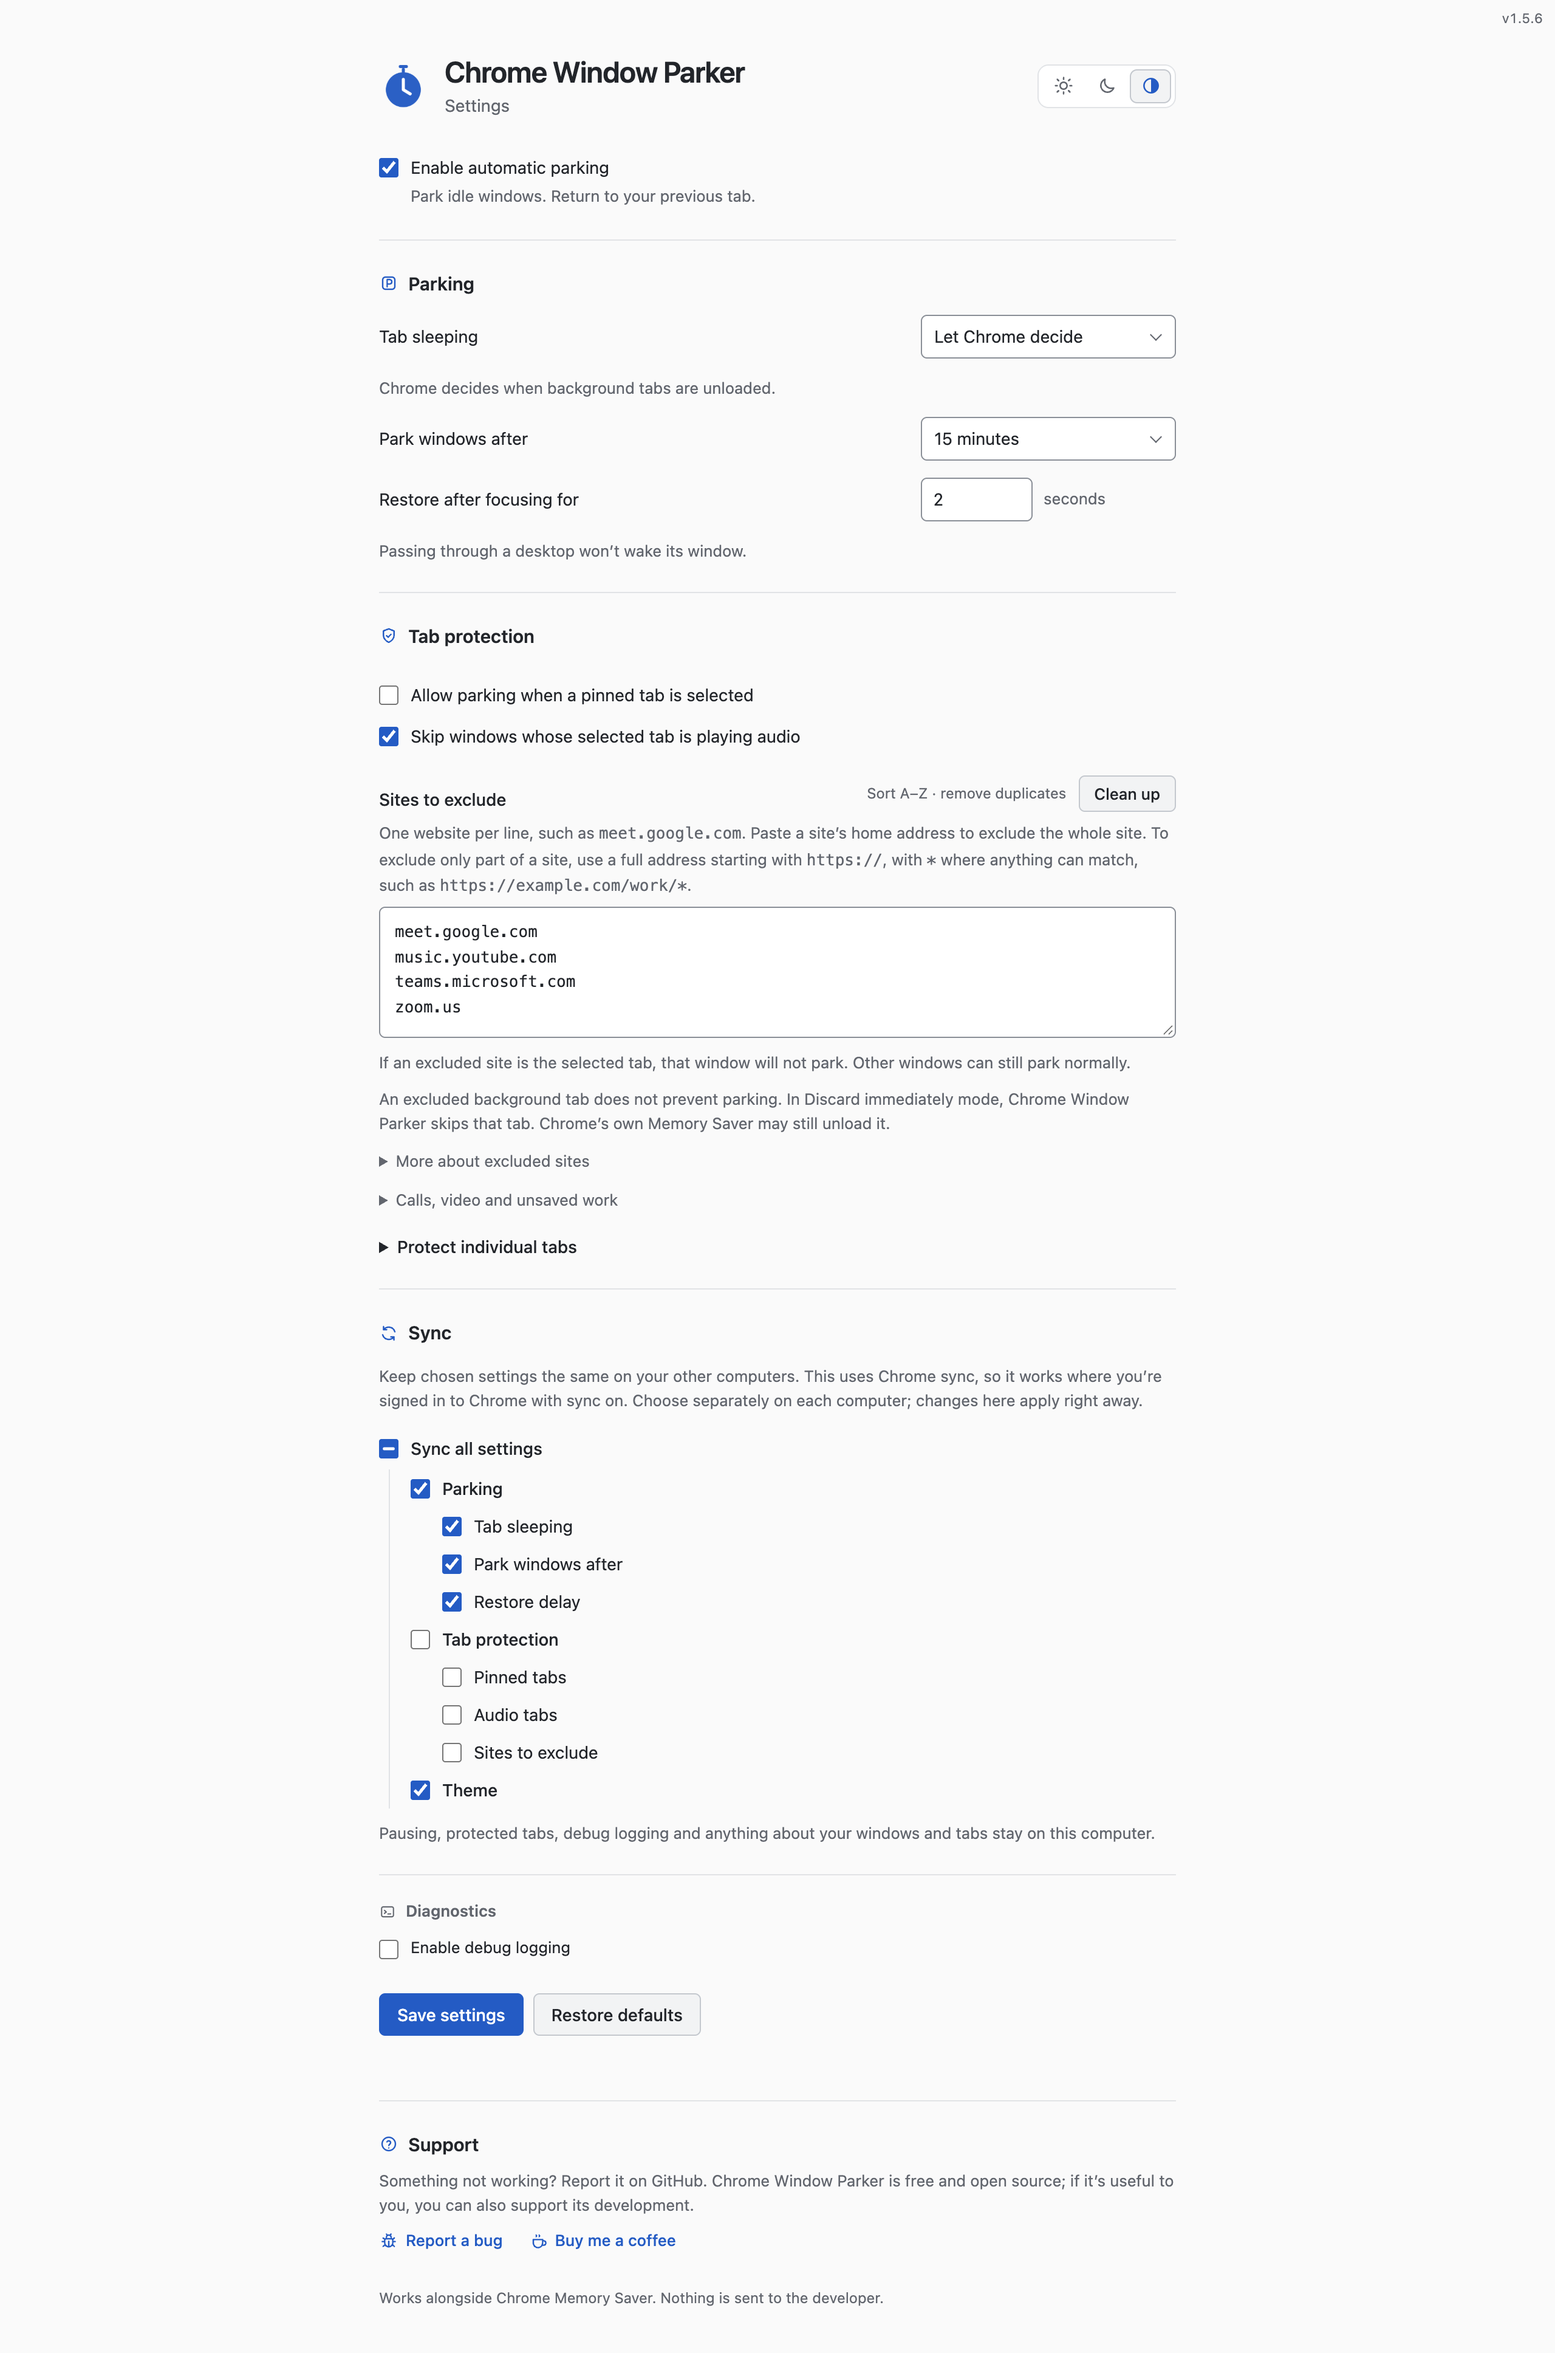
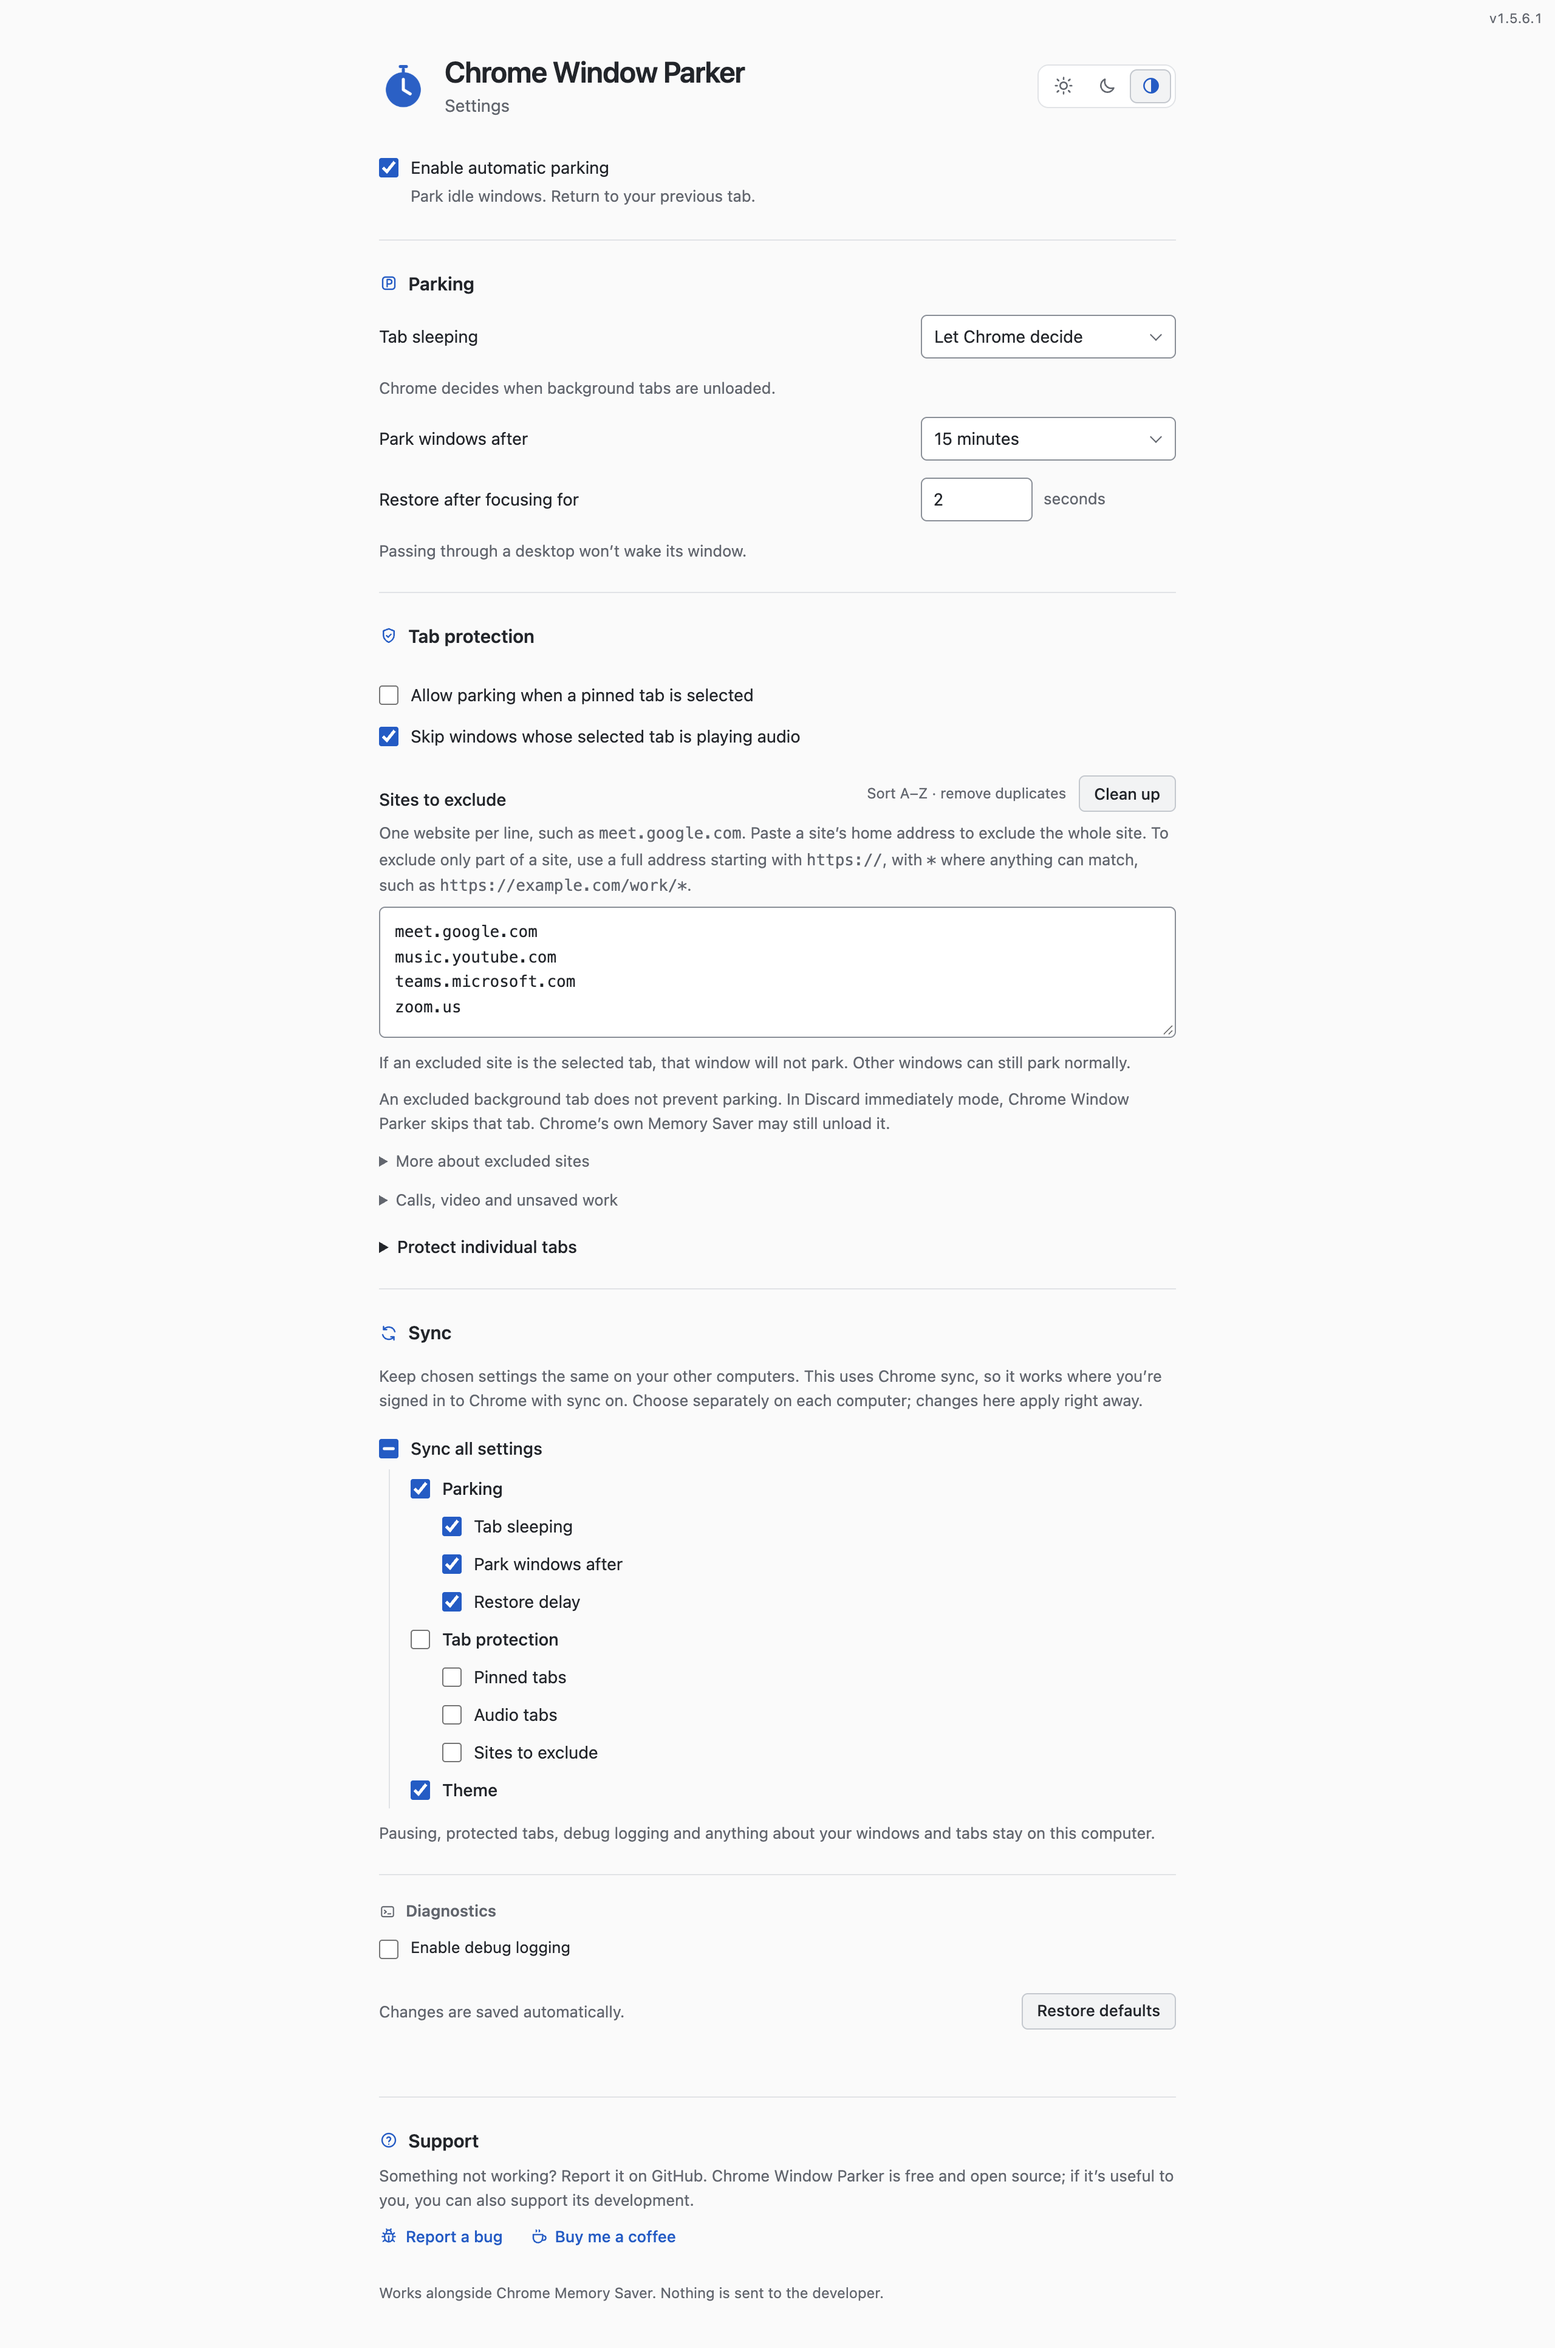
Release candidate 1.5.6.1: version, changelog, capture records and audit
Version 1.5.6.1, with a changelog entry for Settings saving each change
as it's made. A fresh capture changed only the Settings source image
(footer and version label), which no Store screenshot shows: screenshots
3 and 4 keep their bytes with their input records pointed at it, and the
other images were identical or differed only by frame anti-aliasing. The
Claude audit records the decision, the checks and the Astra handoff.

diff --git a/tests/support.test.js b/tests/support.test.js
@@ -81,5 +81,5 @@ test('permission list and restrictive CSP remain unchanged; no external resource
  const m=JSON.parse(read('manifest.json'));assert.deepEqual(m.permissions,['tabs','storage','alarms','downloads','favicon']);assert.equal(m.host_permissions,undefined);assert.equal(m.content_scripts,undefined);
  assert.equal(m.content_security_policy.extension_pages,"default-src 'self'; script-src 'self'; style-src 'self'; img-src 'self'; connect-src 'none'; object-src 'none'; base-uri 'none'; form-action 'none'; frame-src 'none'");
  for(const f of ['popup.html','options.html','parked.html'])assert(!/<(?:script|img|iframe)[^>]+(?:src|href)="https?:/.test(read(f)));
- assert.equal(m.version,'1.5.6');assert(!/stripe|payment|entitlement/i.test(read('support.js')));
+ assert.equal(m.version,'1.5.6.1');assert(!/stripe|payment|entitlement/i.test(read('support.js')));
 });

diff --git a/CLAUDE_AUDIT.md b/CLAUDE_AUDIT.md
@@ -399,3 +399,39 @@ Owned by Claude after this initial bootstrap. Follow the shared audit rules in [
   - `init()` ordering around `replaced()` and `dropClosed()` versus events Chrome delivers after the window snapshot.
   - `closed()` forgetting records of owned pages versus pages moved to another window and awaiting cleanup.
   - Clean up's claim that exactly the same pages stay excluded (property-tested over sample URLs, not proven).
+
+### 2026-10-01 — 1.5.6.1: Settings save themselves
+
+- Base: released `v1.5.6` (`main` = `dev` = `0b63649`) plus the audit-only `21f74ac`. Candidate: `1f5a231` (autosave: code, tests, docs, reviewer text), then this commit (version 1.5.6.1, changelog, capture records, this entry).
+- Scope: began as "Unsaved changes." plus a transient "Settings saved."; Monty then asked first whether Save is needed at all. Decided against it, from the code and live probes:
+  - No atomicity: `validateSettings` checks each field on its own, and `configure(settings, shown)` already applies only fields that differ from what the page showed (the popup's pause and sync already change one setting at a time).
+  - Runtime: a configure stops an in-flight park or discard batch and restarts dwell, as any settings change does; no setting acts on windows already parked.
+  - Writes: `storage.sync` allows 120 writes a minute and Chrome fires `change` on every arrow-key step of a number box (probe), so numbers wait 500 ms. Boxes and menus change at human pace.
+  - In-between values are unsafe (typing 30 passes through a 3-minute delay), so nothing saves on `input`. `change` fires on Enter, on leaving a box and on switching windows (probes; the last headful).
+  - The page already mixed models: theme, sync and tab protection applied at once, the rest waited for Save, and edits were lost silently if Settings closed.
+- Changed (`options.js`, `options.html`, `ui.css`; engine, worker and settings rules untouched):
+  - Each setting saves through `configure` with `shown`, one request at a time. No-op changes are never sent, so local intent is still marked only for real changes.
+  - Numbers use Chrome's own checks (required, min, max, step). An invalid value is put back with a note in Parking (`#parkingStatus`); the custom delay box stays open, keeping focus.
+  - The site list is checked with `validateSettings` before sending. An invalid list stays as typed, with `aria-invalid`, an error edge and a note under it (`#sitesStatus`, part of its description), while the previous list stays in use. Leaving the box retries it even unedited, since Chrome then fires no `change`.
+  - A failed save (storage full, worker unavailable) puts controls back to the values in use; the list keeps its text.
+  - Leaving the page (`visibilitychange`) sends what was being typed; a configure sent while the tab closes is applied (probe).
+  - The page refreshes its copy of the settings from `storage.local` reads after each save and each notice, not from notice payloads. In the harness, an old notice arriving after a newer reply had flipped a checkbox back. A queued change counts as edited.
+  - Restore defaults keeps its question, drops queued changes, and ignores the `change` Chrome fires when locking a box being edited (probe). Its message clears after 8 s; no timer clears a newer message.
+  - Clean up saves like any edit; Undo in the box restores the text, saved on leaving it.
+  - Footer: "Changes are saved automatically." beside a small Restore defaults. `#status` keeps one line (`1lh`; it was 18 px under 19.5 px text). The Enter suppression for the immediate lists went with the submit path.
+- Tests: the options harness now models Chrome's number validity, page visibility, mocked timers and the worker's serial queue. 7 tests rewritten and 13 added: 392 → 405. Mutation: 24 single-point breaks of the new logic each fail at least one test.
+- Live, headless Chrome 154 in disposable profiles, on the worktree and then the unzipped ZIP: core 40/40, site list 18/18 (a real 1-minute park: the window whose selected tab is excluded stays awake, the other parks), external, sync and failure 20/20 (a second Settings page, the popup's pause, sync sharing, a storage refusal injected into the worker), visual 8/8 (light, dark, forced colours, 420 px, 200 % zoom, Tab order) and a stopped worker 5/5. No console errors.
+- Store: a fresh capture and compose in a scratch copy changed only `settings-light.png` (footer, version label). Screenshots 2–5 re-rendered with 20–67 px of frame anti-aliasing noise (at most 2/255) and keep their bytes; screenshot 1, the promos, icon and cover were identical. Committed the new Settings capture, its fingerprints and the screenshot 3/4 input records; no image needs re-uploading. The reviewer instructions now say "then press Enter" (499 of 500 characters with CRLF).
[1 lines of base64/hex data omitted]
+- Not changed: engine, worker, popup, parked page, sync semantics, Store description, privacy fields and images, main, dev, tags, agent/codex, `CODEX_AUDIT.md` and Ultra.
+- Open: menu changes were synthetic `change` events; no VoiceOver, Windows or Linux check; window-switch `change` was probed headful only.
+
+#### Astra handoff
+
+- Target 1.5.6.1; candidate this commit (stack `1f5a231`, this commit); released baseline `v1.5.6` = `0b636495b4078d0532a859982fb005b6e2fcff0d`.
+- Highest-value challenges:
+  - The save points: Enter, leaving a box, switching windows, the 500 ms number pause, and the hidden-page flush, including its branch for a save already in flight.
+  - Storage reads as the page's copy of the truth, against `shown` merges when two pages edit at once.
+  - Local intent: a setting changed and changed back is now marked as chosen here, so turning its sync on later asks instead of adopting.
+  - Pinned, audio and debug failures report in the footer, far from their boxes (they need storage full or a dead worker).
+  - Restore defaults' 8 s message, the only message that fades.

diff --git a/CHANGELOG.md b/CHANGELOG.md
@@ -1,5 +1,10 @@
 # Changelog
 
+## 1.5.6.1
+
+- **Settings save themselves.** Each change applies as soon as you make it, so there's no Save settings button and nothing to forget. A number saves when you press Enter or leave its box, and the site list when you leave it, so a half-typed value never takes effect. Closing Settings keeps what you typed.
+- **Mistakes are explained where they happen.** A number that can't be used goes back to the one in use, with a note under Parking. A site list that can't be used stays as you typed it, marked, while the previous list stays in use.
+
 ## 1.5.6
 
 - **Parked windows show what they hold.** The parking page now leads with your tab's own icon and title, so you can tell parked windows apart at a glance, for example in Mission Control. The parking tab keeps the Window Parker icon. The icon is Chrome's own saved copy, using the new favicon permission, which adds no install warning.
